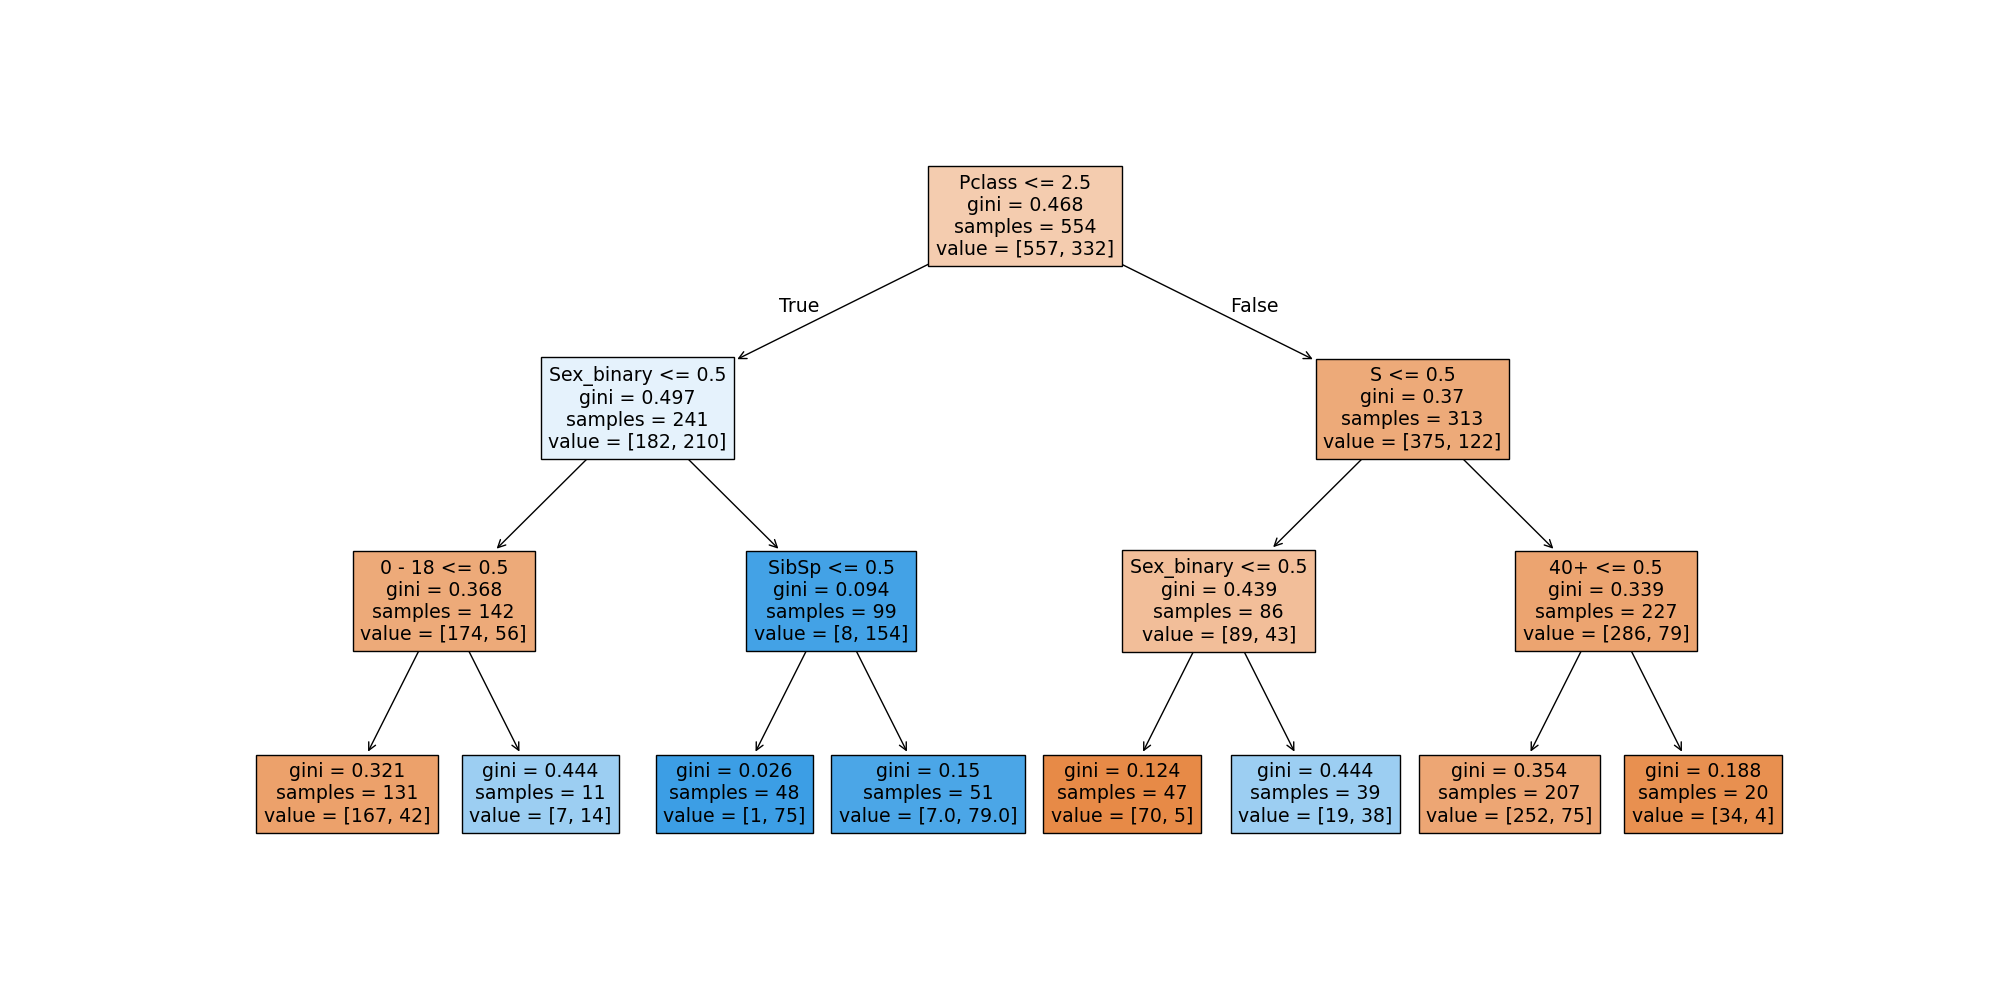
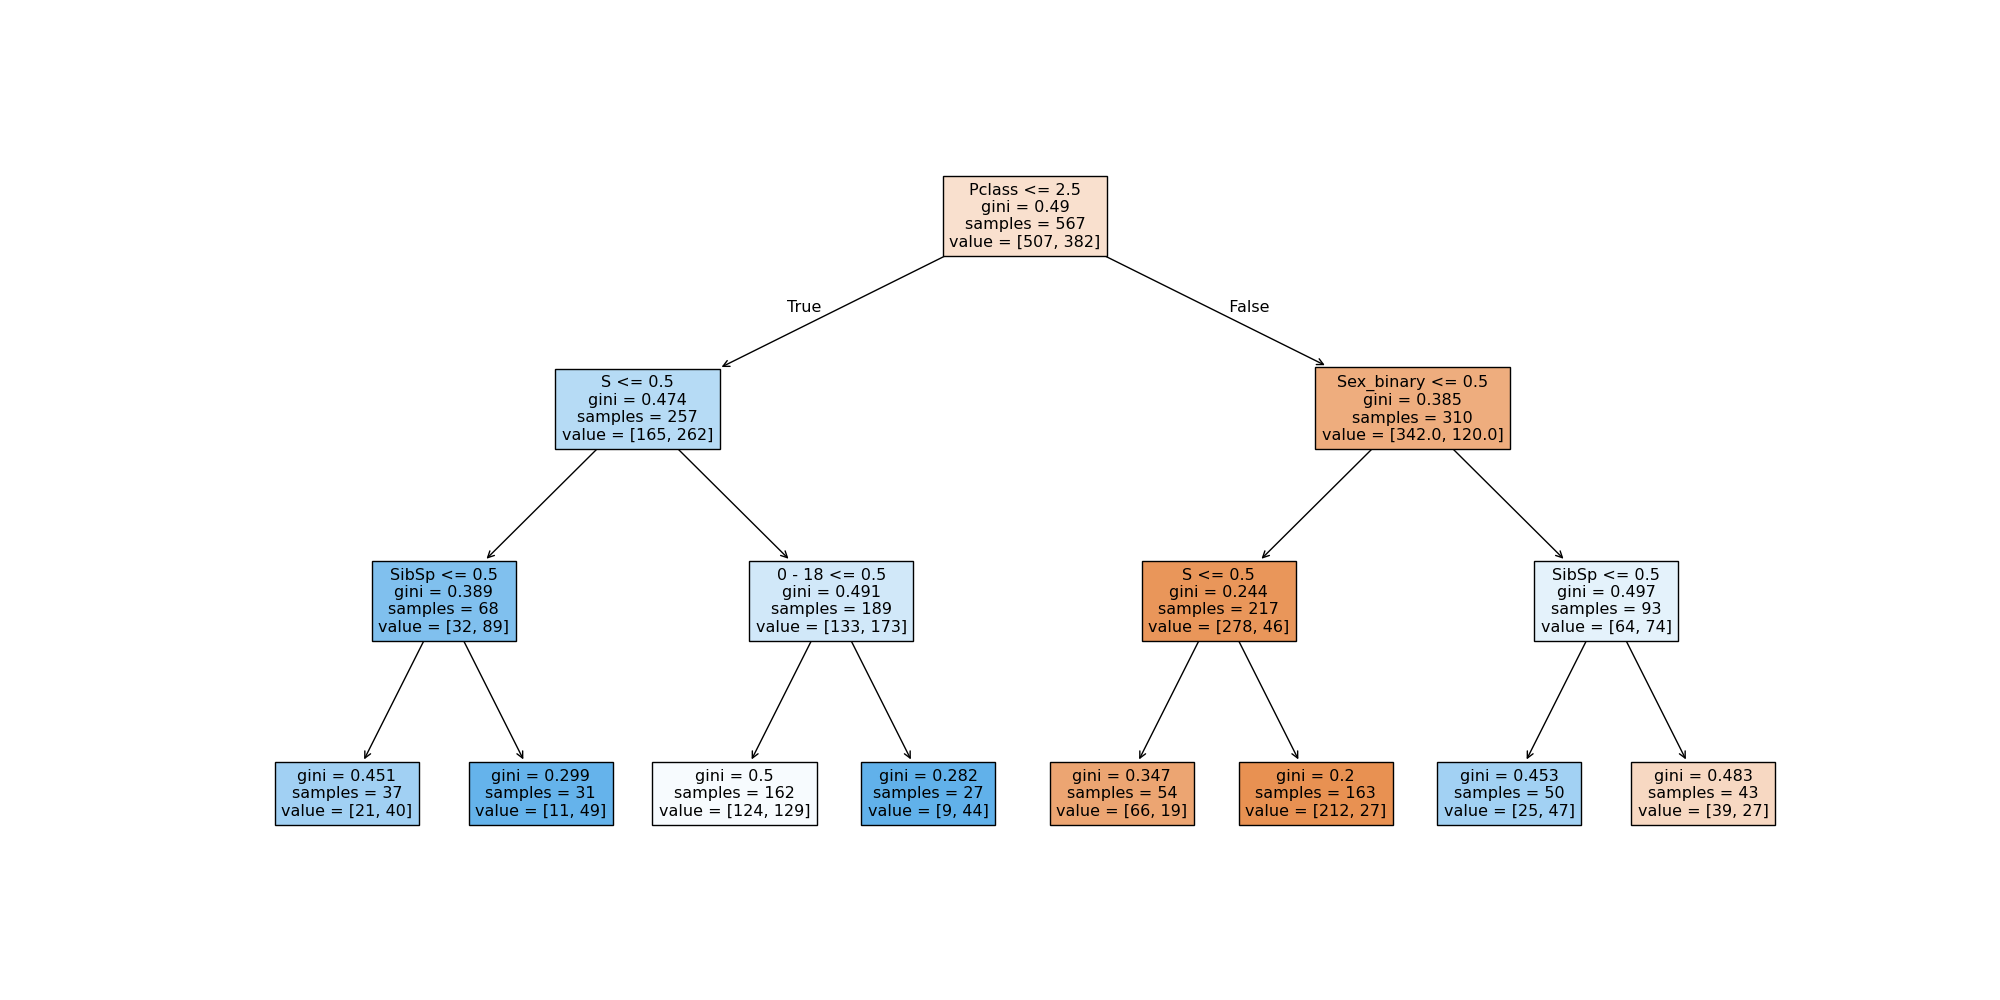
Added params to config

diff --git a/Project_Titanic/src/main.py b/Project_Titanic/src/main.py
@@ -13,6 +13,10 @@ def run_pipeline(config) -> None:
 
         train_data_path = config_data.get('train_data')
         test_data_path = config_data.get('test_data')
+        directory_scores = config_data.get('directory_scores')
+
+        decision_tree_parameters = config_data.get('decision_tree_parameters')
+        random_forest_parameters = config_data.get('random_forest_parameters')
 
         train_data = import_data.read_data(train_data_path)
         test_data = import_data.read_data(test_data_path)
@@ -20,15 +24,13 @@ def run_pipeline(config) -> None:
         X_train, Y_train = clean_data.clean_data(train_data)
         X_test, Y_test = clean_data.clean_data(test_data)
 
-        decisiontree_model = train_model.train_decision_tree(X_train, Y_train)
+        decisiontree_model = train_model.train_decision_tree(X_train, Y_train,directory_scores,decision_tree_parameters)
         svm_model = train_model.train_svm(X_train, Y_train)
-        random_forest_model = train_model.train_random_forest(X_train, Y_train)
+        random_forest_model = train_model.train_random_forest(X_train, Y_train,directory_scores,random_forest_parameters)
 
-        check_model.check(decisiontree_model, X_test, Y_test,
-                          "Decision_Tree_scores")  # last argument is directory to save scores
-        check_model.check(svm_model, X_test, Y_test, "Svm_model_scores")  # last argument is directory to save scores
-        check_model.check(random_forest_model, X_test, Y_test,
-                          "Random_Forest_scores")  # last argument is directory to save scores
+        check_model.check(decisiontree_model, X_test, Y_test,"Decision_Tree_scores",directory_scores)  # last argument is directory to save scores
+        check_model.check(svm_model, X_test, Y_test,"Svm_model_scores",directory_scores)  # last argument is directory to save scores
+        check_model.check(random_forest_model, X_test, Y_test,"Random_Forest_scores",directory_scores)  # last argument is directory to save scores
 
 
 if __name__ == "__main__":

diff --git a/Project_Titanic/src/model/train_model.py b/Project_Titanic/src/model/train_model.py
@@ -7,18 +7,11 @@ from sklearn.model_selection import GridSearchCV
 from sklearn.tree import DecisionTreeClassifier, plot_tree
 from sklearn import svm
 
-directory_scores = "../scores"
 
-
-def train_decision_tree(X_train: pd.DataFrame, Y_train: pd.DataFrame) -> DecisionTreeClassifier:
-    param_grid = {
-        "max_depth": [3],
-        "min_samples_split": [2, 5],
-        "min_samples_leaf": [1, 2]
-    }
-
+def train_decision_tree(X_train: pd.DataFrame, Y_train: pd.DataFrame, directory_scores: str,
+                        decision_tree_params: dict) -> DecisionTreeClassifier:
     model = DecisionTreeClassifier()
-    grid_search = GridSearchCV(estimator=model, param_grid=param_grid, cv=5, scoring='accuracy')
+    grid_search = GridSearchCV(estimator=model, param_grid=decision_tree_params, cv=5, scoring='accuracy')
     grid_search.fit(X_train, Y_train)
     best_model = grid_search.best_estimator_
 
@@ -39,19 +32,12 @@ def train_svm(X_train: pd.DataFrame, Y_train: pd.DataFrame) -> svm:
     return clf
 
 
-def train_random_forest(X_train: pd.DataFrame, Y_train: pd.DataFrame) -> RandomForestClassifier:
-    param_grid = {
-        'n_estimators': [100],
-        'max_depth': [3],
-        # 'min_samples_split': [2],
-        #  'min_samples_leaf': [1]
-    }
-
+def train_random_forest(X_train: pd.DataFrame, Y_train: pd.DataFrame, directory_scores: str,
+                        random_forest_parameters: dict) -> RandomForestClassifier:
     rf = RandomForestClassifier()
-    grid_search = GridSearchCV(rf, param_grid, cv=3, scoring='f1')
+    grid_search = GridSearchCV(rf, param_grid=random_forest_parameters, cv=3, scoring='f1')
     grid_search.fit(X_train, Y_train)
     improved_rf = grid_search.best_estimator_
-
     all_trees = improved_rf.estimators_
 
     # Added ten trees

diff --git a/Project_Titanic/src/check/check_model.py b/Project_Titanic/src/check/check_model.py
@@ -8,7 +8,8 @@ from sklearn.metrics import f1_score
 import os
 
 
-def check(model: BaseEstimator, X_test: pd.DataFrame, Y_test: pd.DataFrame, model_name: str) -> None:
+def check(model: BaseEstimator, X_test: pd.DataFrame, Y_test: pd.DataFrame, model_name: str,
+          directory_scores: str) -> None:
     Y_pred = model.predict(X_test)
 
     accuracy = accuracy_score(Y_test, Y_pred)
@@ -16,8 +17,6 @@ def check(model: BaseEstimator, X_test: pd.DataFrame, Y_test: pd.DataFrame, mode
     recall = recall_score(Y_test, Y_pred)
     f1 = f1_score(Y_test, Y_pred)
     conf_matrix = confusion_matrix(Y_test, Y_pred)
-
-    directory_scores = "../scores"
 
     file_name = model_name + ".txt"  # model_name = name of classificator and directory target
     directory_target = model_name
